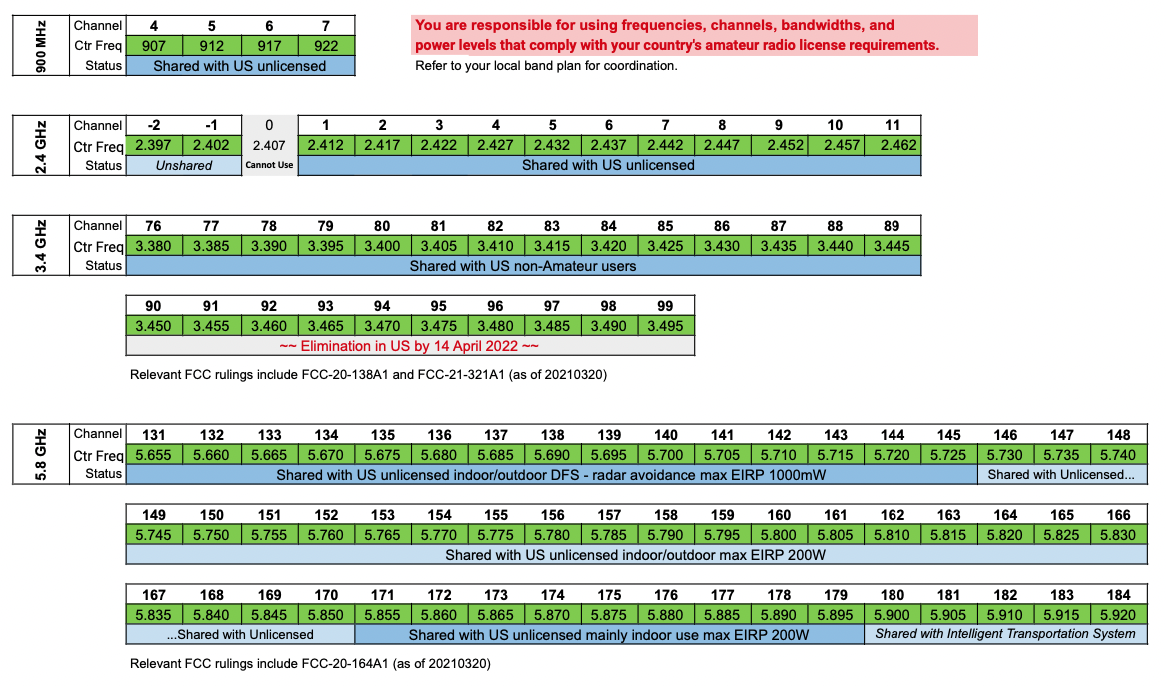
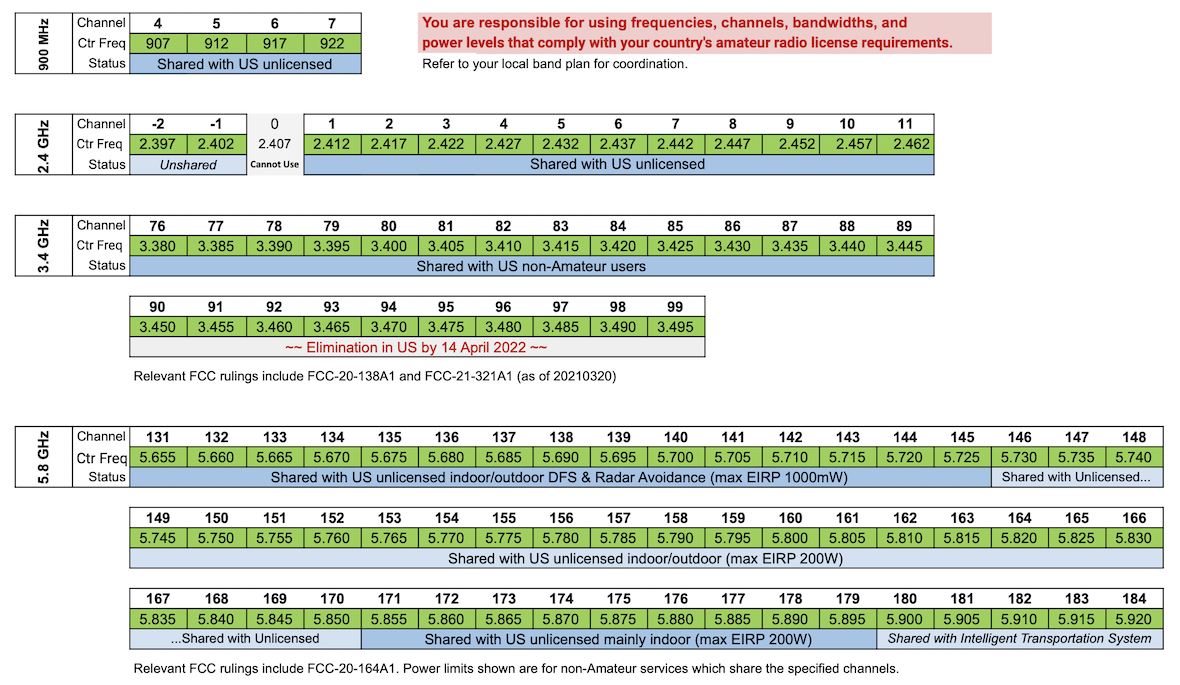
clarify power limits for AREDN

diff --git a/arednNetworkDesign/frequency_bands.rst b/arednNetworkDesign/frequency_bands.rst
@@ -6,7 +6,8 @@ AREDN |trade| networks operate in the microwave radio spectrum, and licensed ama
 
 .. caution:: **You are responsible for using frequencies, channels, bandwidths, and power levels that comply with your country's amateur radio license requirements.**
 
-Each band is divided into channels, each of which consists of a 5 MHz frequency offset identified by the center frequency of the channel and assigned a numerical label. In the example below you can see that a selected channel may use more or less of the frequency range based on the chosen channel width. The wider the channel, the more overlap there will be with adjacent channels. Wide channels have the effect of reducing the number of non-overlapping or non-interfering channels that will be available for use. When selecting channels and widths, be sure to use non-overlapping channels. Devices using channels or channel widths that overlap will interfere with one another and cannot communicate to coordinate the sharing of bandwidth.
+Channel Information
+  Each band is divided into channels, each of which consists of a 5 MHz frequency offset identified by the center frequency of the channel and assigned a numerical label. In the example below you can see that a selected channel may use more or less of the frequency range based on the chosen channel width. The wider the channel, the more overlap there will be with adjacent channels. Wide channels have the effect of reducing the number of non-overlapping or non-interfering channels that will be available for use. When selecting channels and widths, be sure to use non-overlapping channels. Devices using channels or channel widths that overlap will interfere with one another and cannot communicate to coordinate the sharing of bandwidth.
 
 .. image:: _images/channel-width-example.png
    :alt: Channel Width Example
@@ -26,6 +27,13 @@ Band     Frequency Range    Channels
 The choice of a frequency band for AREDN |trade| networking depends on several different factors, but you can "mix and match" bands in your network design as long as both sides of a radio link use the same band, channel, and channel width.
 
 You have the option of selecting the channel width for each link. When using channels at the top or bottom of a band, be certain that your chosen width will not transmit outside of the FCC Part 97 allocation for that band. Different channel widths may yield better throughput than others. In some areas operators use different channels to isolate links, so they may need to use 10 MHz rather than 20 MHz channels in order to ensure they have enough available channels. Also, long distance links simply have better performance using 10 MHz vs. 20 MHz or 5 MHz channel widths. Test the performance of your links using various channel widths to ensure that they are optimized.
+
+Power Limitations
+  The power limits that apply to AREDN |trade| networks are the same as those that apply generally for amateur radio operators in your country. As with any other operating mode, you should use the *minimum* power required to make radio links between nodes. In the United States, for example, this rule is specified in FCC part 97.313(a), and the maximum transmitter output power cannot exceed 1.5 kW PEP as specified by FCC part 97.313(b).
+
+  However there is one situation in the US where AREDN |trade| devices are limited to 10W PEP. This special limitation applies to legacy devices that use 802.11b, which is a Spread Spectum (SS) emission. FCC part 97.313(j) limits SS transmitter power to 10W PEP. All other AREDN |trade| devices use 802.11n which transmits carrier waves with combinations of PSK and AM modulations. Refer to the 802.11n MCS rate tables for specific modulations that are used.
+
+  In actual practice, the output power of AREDN |trade| devices will be limited by the hardware that is used. Even though in the US the FCC rules allow higher power, all of the modern commercial routers being used for AREDN |trade| physically cannot transmit these high power levels. Therefore, the power limits allowed in the US by the FCC will never be reached unless you have an external Power Amplifier.
 
 Some of the advantages and disadvantages of each frequency range are explained in the sections below which give examples of frequencies that are available to amateur radio operators in the US.
 
